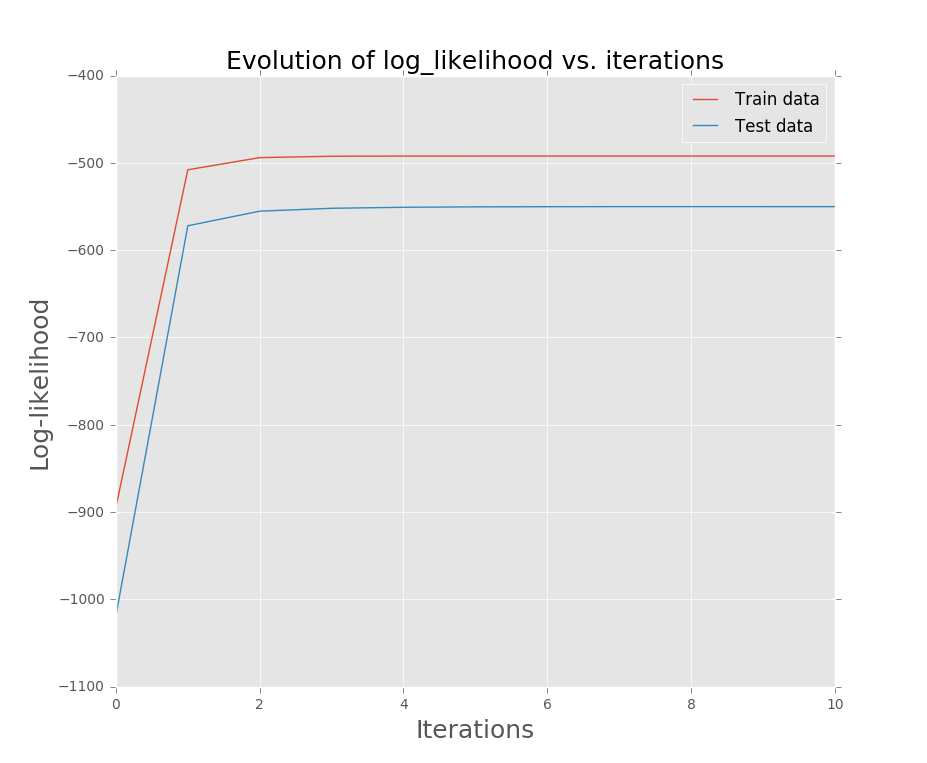
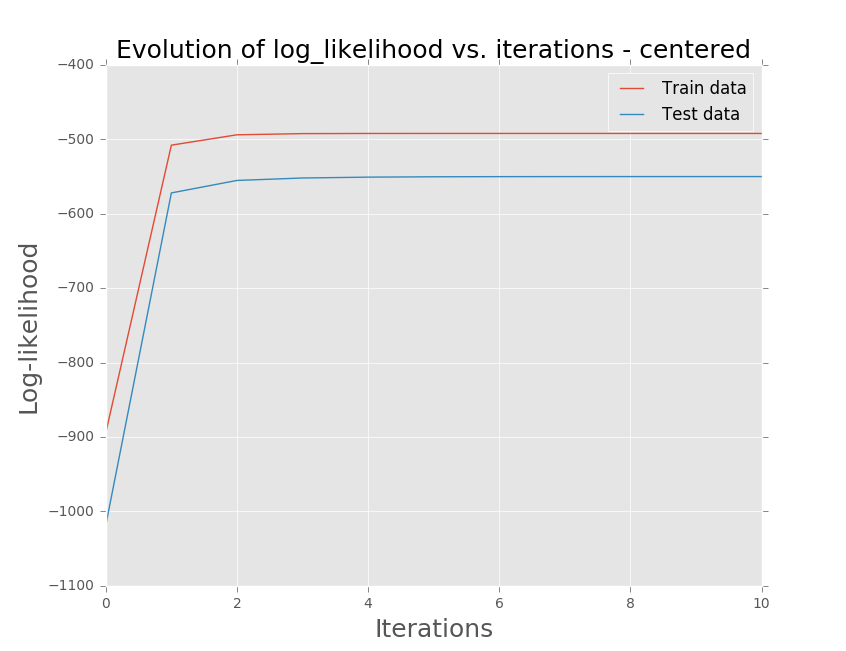
Correct the figures

diff --git a/HMM_Othman.py b/HMM_Othman.py
@@ -173,9 +173,9 @@ if __name__ == "__main__":
     test = np.loadtxt('data/EMGaussian.test')
 
     #center the data
-    # scaler = preprocessing.StandardScaler().fit(train)
-    # train = scaler.transform(train)
-    # test = scaler.transform(test)
+    scaler = preprocessing.StandardScaler().fit(train)
+    train = scaler.transform(train)
+    test = scaler.transform(test)
 
     U = train # npoints=500 x dim=2
     V = test # npoints=500 x dim=2
@@ -218,7 +218,7 @@ if __name__ == "__main__":
     plt.figure()
     plt.plot(log_likelihood, label="Train data")
     plt.plot(log_likelihood_test, label="Test data")
-    plt.title("Evolution of log_likelihood vs. iterations", size=18)
+    plt.title("Evolution of log_likelihood vs. iterations - centered", size=18)
     plt.xlabel("Iterations", size=18)
     plt.ylabel("Log-likelihood", size=18)
     plt.legend()
